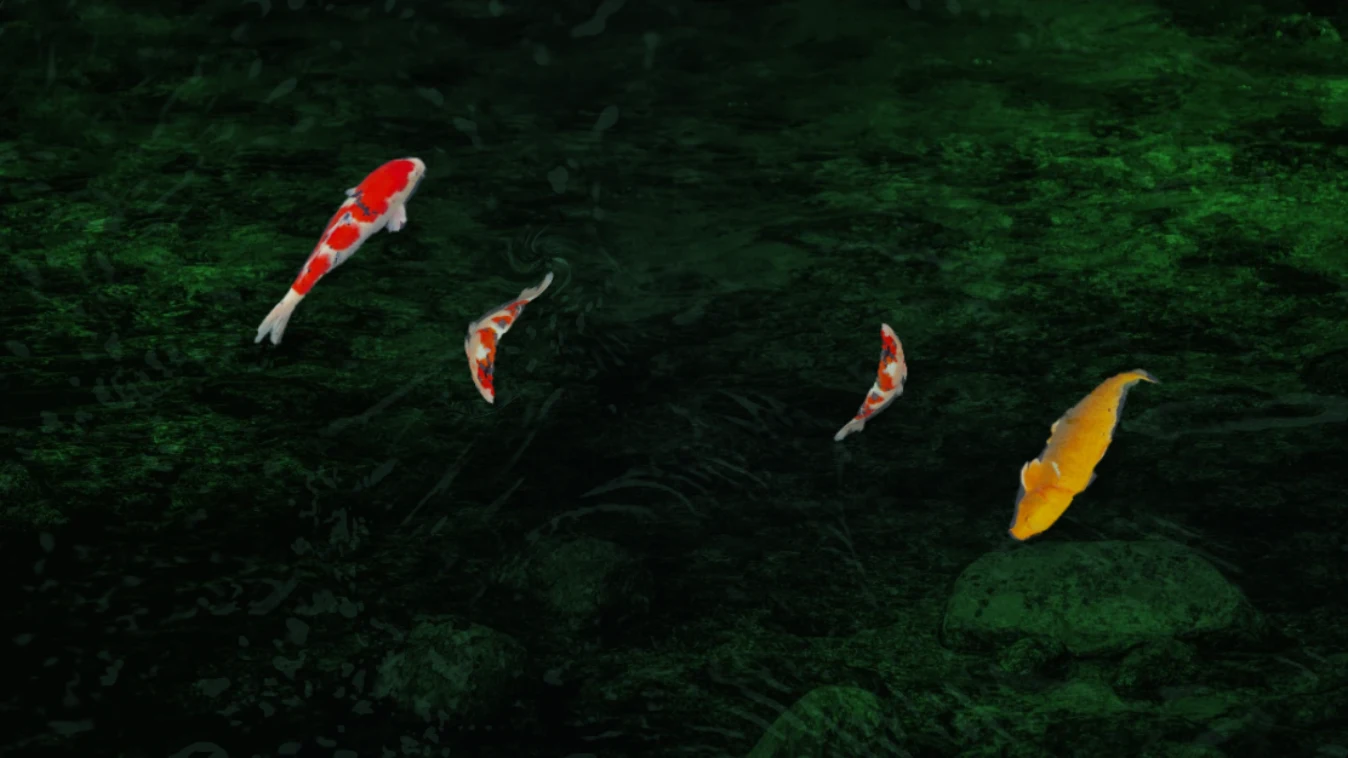
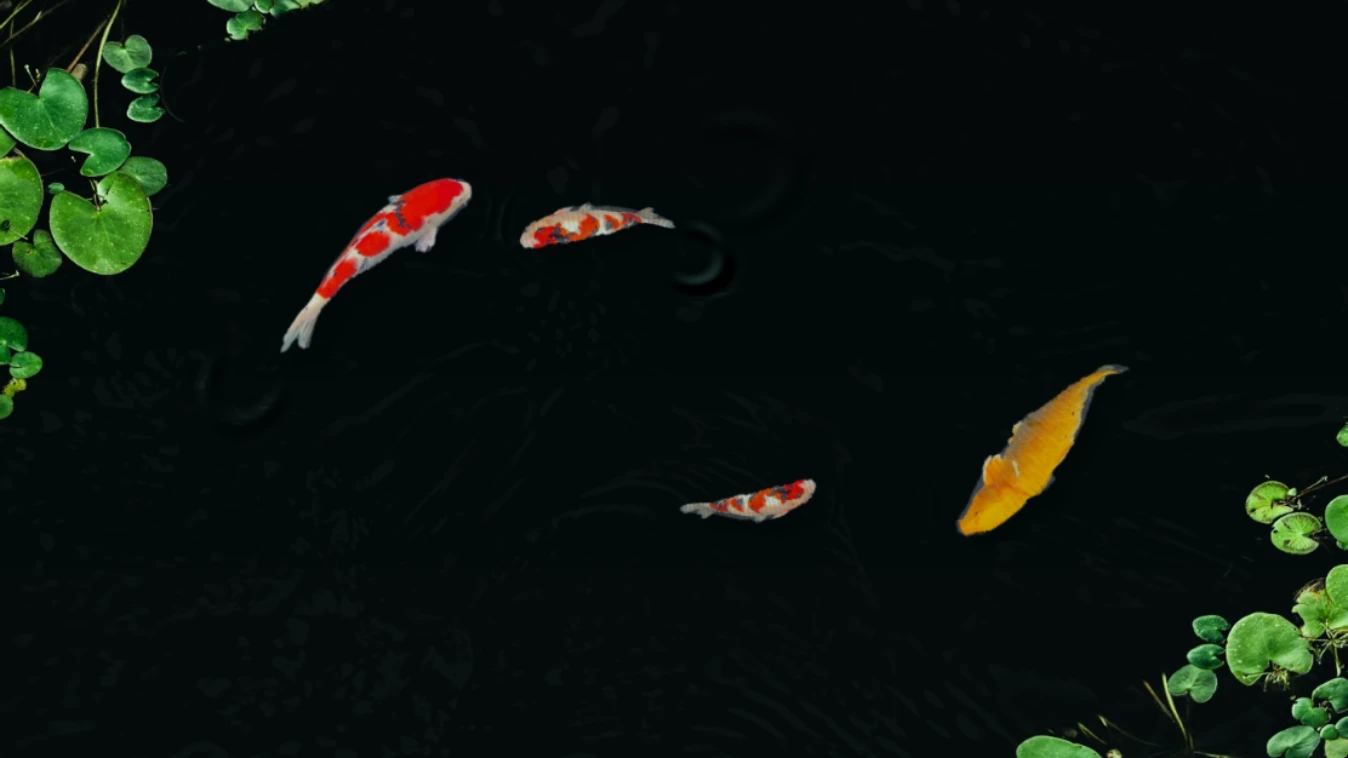
Lead koi turns from the head and frame still water with lily pads

diff --git a/src/components/professional/artwork-pond.ts b/src/components/professional/artwork-pond.ts
@@ -2,8 +2,10 @@ const height = 562.5;
 const tau = Math.PI * 2;
 type Point = readonly [number, number];
 
-function catmull(a: number, b: number, c: number, d: number, t: number) {
-  return b + .5 * t * (c - a + t * (2 * a - 5 * b + 4 * c - d + t * (3 * b - a - 3 * c + d)));
+function cubicSpline(a: number, b: number, c: number, d: number, t: number) {
+  const back = 1 - t;
+  return (back ** 3 * a + (4 - 6 * t * t + 3 * t ** 3) * b
+    + (1 + 3 * t + 3 * t * t - 3 * t ** 3) * c + t ** 3 * d) / 6;
 }
 
 function makeTrack(waypoints: Point[]) {
@@ -16,7 +18,7 @@ function makeTrack(waypoints: Point[]) {
     const steps = i === count ? 1 : 40;
     for (let j = 0; j < steps; j++) {
       const t = j / 40;
-      const point: Point = [catmull(a[0], b[0], c[0], d[0], t), catmull(a[1], b[1], c[1], d[1], t)];
+      const point: Point = [cubicSpline(a[0], b[0], c[0], d[0], t), cubicSpline(a[1], b[1], c[1], d[1], t)];
       const last = points[points.length - 1];
       if (last) distance.push(distance[distance.length - 1] + Math.hypot(point[0] - last[0], point[1] - last[1]));
       points.push(point);
@@ -53,11 +55,11 @@ function makeTrack(waypoints: Point[]) {
 }
 
 const outer = makeTrack([[208, 253], [329, 127], [590, 111], [805, 174], [810, 324], [655, 428], [399, 454], [220, 375]]);
-const inner = makeTrack([[358, 261], [420, 332], [579, 342], [660, 284], [620, 218], [480, 202], [393, 220]]);
+const inner = makeTrack([[278, 250], [365, 374], [574, 392], [728, 305], [672, 187], [506, 159], [351, 170]]);
 
 const koi = [
-  { asset: 1, track: inner, start: .48, size: 105, speed: 23, frequency: .85, phase: .44, cycle: 5.9, opacity: .78 },
-  { asset: 1, track: inner, start: .97, size: 120, speed: 22, frequency: .73, phase: .09, cycle: 6.4, opacity: .84 },
+  { asset: 1, track: inner, start: .31, size: 105, speed: 23, frequency: .85, phase: .44, cycle: 5.9, opacity: .78 },
+  { asset: 1, track: inner, start: .81, size: 120, speed: 22, frequency: .73, phase: .09, cycle: 6.4, opacity: .84 },
   { asset: 2, track: outer, start: .53, size: 165, speed: 32, frequency: .79, phase: .71, cycle: 6.1, opacity: .91 },
   { asset: 0, track: outer, start: .045, size: 187, speed: 32, frequency: .76, phase: .32, cycle: 6.9, opacity: .95 },
 ];
@@ -68,28 +70,29 @@ function poseAt(fish: Koi, time: number) {
   const surge = Math.sin(cadence) * fish.cycle / tau * .24;
   const effort = Math.max(0, (Math.cos(cadence) + .28) / 1.28);
   const distance = fish.track.length * fish.start + fish.speed * (time + surge);
-  const heading = fish.track.headingAt(distance);
-  return {
-    distance,
-    center: fish.track.pointAt(distance),
-    forward: [Math.cos(heading), Math.sin(heading)] as Point,
-    amplitude: fish.size * (.008 + .049 * effort),
-    phase: (time * fish.frequency + fish.phase) * tau,
-    effort,
-  };
+  return { distance, phase: (time * fish.frequency + fish.phase) * tau, effort };
 }
 
-function spine(fish: Koi, pose: ReturnType<typeof poseAt>, u: number): Point {
-  const offset = (u - .50) * fish.size;
-  const [x, y] = fish.track.pointAt(pose.distance + offset);
-  const [dx, dy] = pose.forward;
-  const [cx, cy] = pose.center;
-  const sway = Math.cos(pose.phase + u * 5.6) * pose.amplitude * (1 - u) ** 2.8;
-  const follow = .62;
-  return [
-    x * follow + (cx + dx * offset) * (1 - follow) - dy * sway,
-    y * follow + (cy + dy * offset) * (1 - follow) + dx * sway,
-  ];
+// Advance the head along the route. Integrate backwards in fixed-length links:
+// the skull steers first, the trunk follows its track, and the tail finishes the stroke.
+const links = 32;
+function bodyAt(fish: Koi, time: number) {
+  const pose = poseAt(fish, time);
+  const noseDistance = pose.distance + fish.size * .5;
+  const headAngle = fish.track.headingAt(noseDistance);
+  const joints: Point[] = [fish.track.pointAt(noseDistance)];
+  const length = fish.size / links;
+  for (let i = 0; i < links; i++) {
+    const u = (i + .5) / links;
+    const angle = fish.track.headingAt(noseDistance - u * fish.size);
+    const turn = Math.atan2(Math.sin(angle - headAngle), Math.cos(angle - headAngle));
+    const flex = Math.max(0, (u - .19) / .81);
+    const stroke = Math.sin(pose.phase - flex * 5.1) * flex ** 1.8 * (.09 + .64 * pose.effort);
+    const tangent = headAngle + 1.12 * Math.tanh(turn / 1.12) * Math.min(1, u * 2.4) + stroke;
+    const [x, y] = joints[i];
+    joints.push([x - length * Math.cos(tangent), y - length * Math.sin(tangent)]);
+  }
+  return { joints, headAngle, effort: pose.effort };
 }
 
 export function createPondSwim() {
@@ -97,47 +100,49 @@ export function createPondSwim() {
   const wakes = new Float32Array(32);
   const wakeAges = new Float32Array(8);
 
+  const lastBeats = koi.map(() => NaN);
+
   function draw(ctx: CanvasRenderingContext2D, images: HTMLImageElement[], time: number) {
     for (const [i, fish] of koi.entries()) {
-      const pose = poseAt(fish, time);
-      const [noseX, noseY] = spine(fish, pose, 1);
-      const [napeX, napeY] = spine(fish, pose, .92);
-      const noseAngle = Math.atan2(noseY - napeY, noseX - napeX);
-      noses.set([noseX / height, noseY / height, noseAngle, fish.opacity * (.40 + pose.effort * .47)], i * 4);
+      const { joints, headAngle, effort } = bodyAt(fish, time);
+      const [noseX, noseY] = joints[0];
+      noses.set([noseX / height, noseY / height, headAngle, fish.opacity * (.40 + effort * .47)], i * 4);
 
-      // A slowed-down, visible representation of the alternating tail vortices.
-      // Sample their origin at the half-stroke, so they stay behind as the koi moves away.
-      const lastBeat = Math.floor((time * fish.frequency + fish.phase) * 2);
+      // The tail lags the trunk wave. Release each vortex near the end of
+      // its lateral sweep, at the position occupied on that stroke.
+      const releasePhase = .84;
+      const lastBeat = Math.floor((time * fish.frequency + fish.phase - releasePhase) * 2);
       for (let j = 0; j < 2; j++) {
         const beat = lastBeat - j;
-        const released = (beat * .5 - fish.phase) / fish.frequency;
-        const stroke = poseAt(fish, released);
-        const [x, y] = spine(fish, stroke, 0);
-        const [stemX, stemY] = spine(fish, stroke, .09);
-        const heading = Math.atan2(stemY - y, stemX - x);
-        const direction = beat % 2 ? -1 : 1;
+        const released = (beat * .5 + releasePhase - fish.phase) / fish.frequency;
         const index = i * 2 + j;
-        wakes.set([x / height, y / height, heading, direction * stroke.effort * fish.opacity], index * 4);
         wakeAges[index] = time - released;
+        if (lastBeats[i] === lastBeat) continue;
+        const stroke = bodyAt(fish, released);
+        const [x, y] = stroke.joints[links];
+        const [stemX, stemY] = stroke.joints[links - 3];
+        const heading = Math.atan2(stemY - y, stemX - x);
+        const direction = beat % 2 ? 1 : -1;
+        wakes.set([x / height, y / height, heading, direction * stroke.effort * fish.opacity], index * 4);
       }
+      lastBeats[i] = lastBeat;
 
       const sprite = images[fish.asset];
       const thickness = fish.size * sprite.height / sprite.width;
-      const slices = 22;
+      const slices = links;
       const sourceSlice = sprite.width / slices;
       const slice = fish.size / slices;
-      const [dx, dy] = pose.forward;
-      let start = spine(fish, pose, 0);
+      let start = joints[links];
       ctx.save();
       ctx.globalAlpha = fish.opacity;
       for (let j = 0; j < slices; j++) {
-        const end = spine(fish, pose, (j + 1) / slices);
+        const end = joints[links - j - 1];
         const x = (end[0] - start[0]) / slice;
         const y = (end[1] - start[1]) / slice;
         ctx.save();
-        ctx.transform(x, y, -dy, dx, start[0], start[1]);
+        ctx.transform(x, y, -y, x, start[0], start[1]);
         ctx.drawImage(sprite, j * sourceSlice, 0, sourceSlice, sprite.height,
-          0, -.5 * thickness, slice + .3, thickness);
+          0, -.5 * thickness, slice + .6, thickness);
         ctx.restore();
         start = end;
       }

diff --git a/src/components/professional/artwork-water.ts b/src/components/professional/artwork-water.ts
@@ -42,8 +42,10 @@ void main() {
     float arc = exp(-abs(front) * 204. - (side * side) * 450.);
     float sway = arc * nose.w * smoothstep(-.047, -.012, ahead)
       * (1. - smoothstep(.073, .116, extent));
-    displacement -= along * sway * vec2(.006, .010);
-    light += sway * .076;
+    vec2 normal = normalize(along + vec2(-along.y, along.x) * (18. * side));
+    float slope = sway * sin(front * 295.);
+    displacement += normal * slope * vec2(.006, .011);
+    light += slope * dot(normal, vec2(-.56, -.83)) * .26;
   }
   for (int i = 0; i < 8; ++i) {
     vec4 wake = wakes[i];
@@ -62,9 +64,15 @@ void main() {
       * (1. - smoothstep(1.38, 1.66, radius));
     float curl = fade * wake.w * exp(-radius * radius * 1.25);
     displacement += vec2(-offset.y, offset.x) / spread * curl * vec2(.020, .028);
-    float arc = exp(-abs(radius - .76) * 3.7);
-    float lee = clamp(.57 + dot(offset, -along) / spread, 0., 1.);
-    light += fade * abs(wake.w) * arc * lee * .102;
+    // A spreading crest tips the local surface toward the sky on one flank
+    // and away on the other. Both refraction and glints use that same slope.
+    vec2 normal = (.76 * field.x * along + field.y * across) / max(length(field), .0001);
+    float front = radius - .94;
+    float lee = smoothstep(-.65, .62, dot(offset, -along) / spread);
+    float slope = sin(front * 8.) * exp(-front * front * 8.)
+      * fade * abs(wake.w) * lee;
+    displacement += normal * slope * vec2(.006, .011);
+    light += slope * dot(normal, vec2(-.56, -.83)) * .32;
   }
   // Light bends farther on its way to the stone bed than to the shallower koi.
   vec2 floorUV = clamp(uv + displacement * 1.68, .001, .999);
@@ -85,8 +93,8 @@ void main() {
   vec2 reflected = clamp(uv * .82 + .09 + displacement * 3.8, .001, .999);
   float flecks = texture2D(surfacePhoto, reflected).r;
   float reflection = smoothstep(.025, .45, flecks);
-  float silver = reflection * (.13 + light * 2.1);
-  color = mix(color, vec3(.34, .63, .49), clamp(silver, 0., .48));
+  float silver = reflection * (.036 + light * 1.8) + max(light, 0.) * .52;
+  color = mix(color, vec3(.55, .66, .69), clamp(silver, 0., .48));
   gl_FragColor = vec4(color, 1.);
 }
 `;

diff --git a/src/components/professional/artwork-scenes.ts b/src/components/professional/artwork-scenes.ts
@@ -14,12 +14,12 @@ type Scene = {
 export const scenicArtworks: Record<ScenicId, Scene> = {
   pond: {
     title: "Koi Pond",
-    description: "Looking straight down through dark water, red, white, and golden koi swim over a shadowed bed of stones.",
+    description: "Looking straight down through dark water, red, white, and golden koi swim between clusters of green lily pads.",
     image: "/artwork/koi-pond.webp",
     creator: "Hideyoshi isai",
     source: "https://www.pexels.com/video/vibrant-koi-fish-swimming-in-a-clear-pond-31421042/",
     additionalCredits: [
-      { creator: "Francesco Ungaro", source: "https://www.pexels.com/photo/crystal-clear-water-in-creek-5427803/" },
+      { creator: "Jonathan Borba", source: "https://www.pexels.com/photo/green-leaves-of-water-plants-on-the-water-surface-14561610/" },
       { creator: "Megan Durkin", source: "https://www.pexels.com/photo/stones-under-shallow-water-24446616/" },
     ],
   },

diff --git a/src/components/professional/scenic-artwork.tsx b/src/components/professional/scenic-artwork.tsx
@@ -69,7 +69,7 @@ export function ScenicArtwork({ id, active }: { id: ScenicId; active: boolean })
 
     function tick(_time: number, delta: number) {
       throttle += Math.min(delta, 48);
-      if (throttle < 30) return;
+      if (!pond && throttle < 30) return;
       elapsed += throttle / 1000;
       throttle = 0;
       draw();
